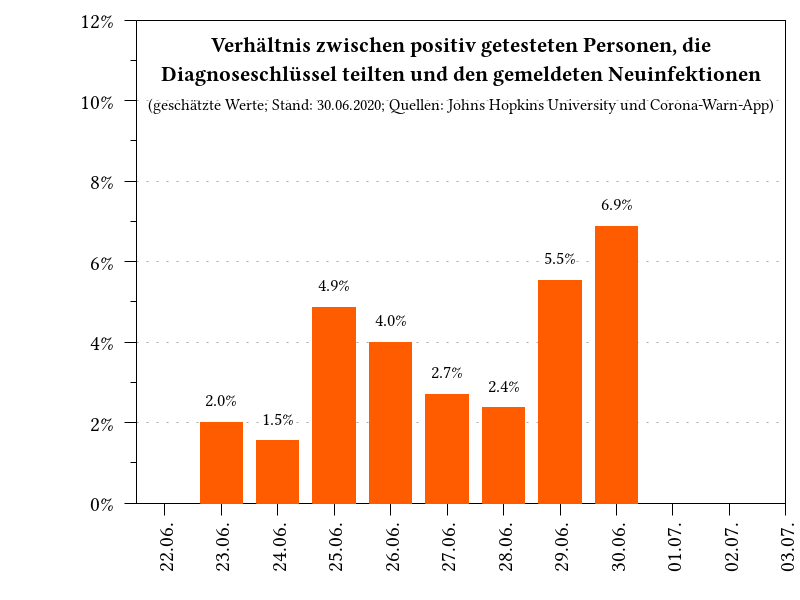
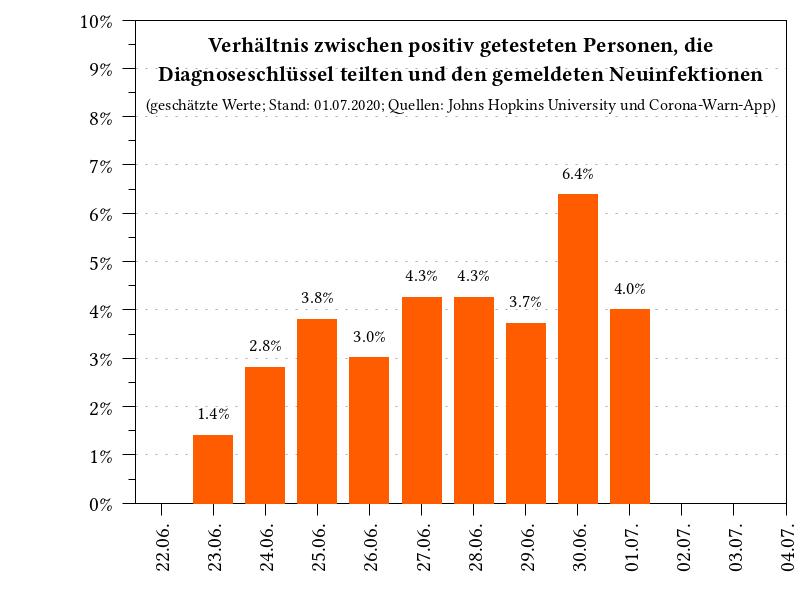
improved JHU correlation

diff --git a/scripts/CWA_JHU_users.py b/scripts/CWA_JHU_users.py
@@ -28,15 +28,16 @@ if __name__ == "__main__":
     sorted_data = sorted(json_data, key=lambda t: t[0])
     
     # read JHU case numbers from disk
-    rki_case_numbers = []
+    jhu_case_numbers = []
     try:
         with open(JHU_CSV_FILE, 'r') as f:
-            rki_raw_data = f.read().splitlines()[1:]
+            jhu_raw_data = f.read().splitlines()[1:]
             f.close()
             
-        for entry in rki_raw_data:
+        for entry in jhu_raw_data:
             fields = entry.split(",")
-            rki_case_numbers.append( [ int(fields[0]), int(fields[2]) ] )
+            jhu_case_numbers.append( [ int(fields[0]), int(fields[2]) ] )
+            
     except:
         print("Error! Cannot read or parse JHU CSV data!")
         sys.exit(1)
@@ -49,9 +50,10 @@ if __name__ == "__main__":
         pos_cases_day = False
         
         # find the closest JHU date to the CWA timestamp data
-        for rki_data in rki_case_numbers:
-            if ( abs(rki_data[0] - timestamp) < 86400 ):
-                pos_cases_day = rki_data[1]
+        for jhu_data in jhu_case_numbers:
+            time_delta = jhu_data[0] - timestamp
+            if ( time_delta > 0 ) and ( time_delta < 86400 ):
+                pos_cases_day = jhu_data[1]
                 break        
         
         if pos_cases_day is not False:
